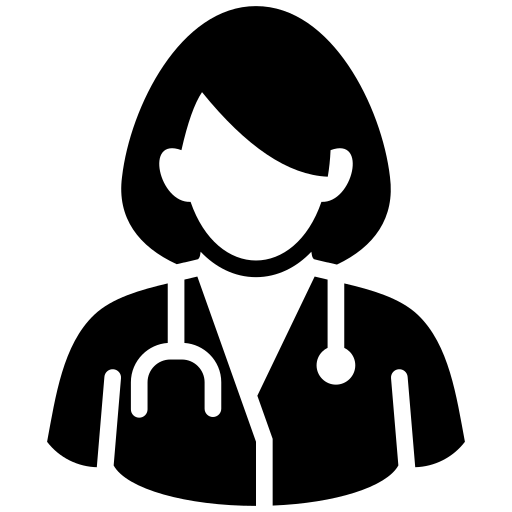
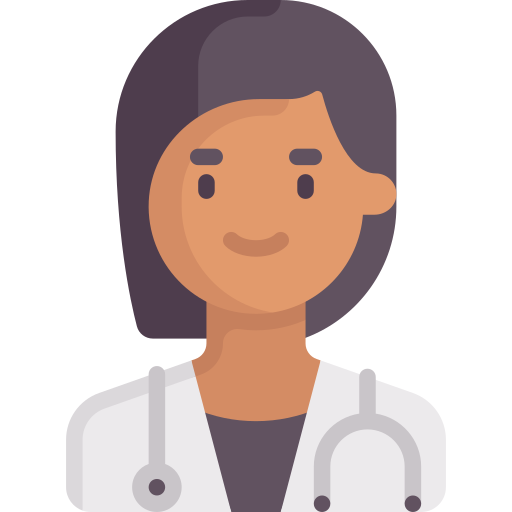
modified doctor register form

diff --git a/frontend/src/Styles/Doctor.css b/frontend/src/Styles/Doctor.css
@@ -1,0 +1,89 @@
+.phamacies-container {
+  width: auto;
+  height: 100vh;
+  align-items: center;
+  justify-content: center;
+  align-items: center;
+  display: flex;
+  background-image: url("../../public/assets/images/background_img.jpg");
+  background-repeat: no-repeat;
+  background-size: cover;
+}
+
+.editpaharmacisimg {
+  width: 110px;
+  border-radius: 50%;
+  background-color: #000000;
+}
+
+.pharmacis {
+  height: 95vh;
+  width: 450px;
+  padding: 25px !important;
+  border-radius: 10px;
+  display: flex;
+  flex-direction: column;
+  justify-content: space-between;
+  background-color: #ffffff;
+  text-align: center;
+}
+
+.pharmaciesimg {
+  width: 60px !important;
+  margin-left: auto;
+  margin-right: auto;
+  text-align: center !important;
+  position: relative;
+}
+
+/* .camera {
+  color: #000;
+  position: absolute;
+  margin-top: 50px;
+  margin-left: -33px;
+  font-size: 20px;
+} */
+
+.pharmacycertificate {
+  border: 1pzx solid #0195e8;
+  height: 50px;
+}
+
+.pharmacies-register {
+  text-align: center;
+  color: #0195e8;
+  font-weight: 600;
+  padding: none;
+}
+
+.pharmacist-form {
+  text-align: left;
+  padding-left: 10px;
+  padding-right: 10px;
+  height: 80vh;
+  margin-top: 25px;
+}
+
+.pharmacist-form input {
+  width: 100%;
+  height: 4.5vh;
+  padding: 5px;
+  margin-top: 10px;
+  margin-bottom: 10px;
+  border: 1px solid #000000;
+  border-radius: 5px;
+}
+
+.pharmacist-form input:active {
+  background-color: #ffffff;
+}
+
+.pharmacist-form input:focus {
+  background-color: #ffffff;
+}
+
+.submitbtnpharmacy {
+  background-color: #0195e8;
+  color: #ffffff;
+  border: none !important;
+}

diff --git a/frontend/src/pages/DoctorRegister.jsx b/frontend/src/pages/DoctorRegister.jsx
@@ -4,7 +4,7 @@ import { FileUploader } from "react-drag-drop-files";
 import "../Styles/Pharmacies.css";
 
 const fileTypes = ["JPG", "PNG", "GIF"];
-export const Pharmacistregister = () => {
+export const Doctorregister = () => {
   const [file, setFile] = useState(null);
   const handleChange = (file) => {
     setFile(file);
@@ -13,8 +13,8 @@ export const Pharmacistregister = () => {
   return (
     <div className="phamacies-container">
       <div className="pharmacis">
-        <img src="assets/images/Pharmacies.jpeg" className="pharmaciesimg" />
-        <h5 className="pharmacies-register">REGISTER AS A PHARMACIST</h5>
+        <img src="assets/images/doctor.png" className="pharmaciesimg" />
+        <h5 className="pharmacies-register">REGISTER AS A DOCTOR</h5>
 
         <Form className="pharmacist-form">
           <label for="">Full Name</label>
@@ -25,7 +25,7 @@ export const Pharmacistregister = () => {
           <input type="email" className="email" />
           <br />
 
-          <label for="">Upload Valid Pharmacies Certificate</label>
+          <label for="">Upload Valid Doctor Certificate</label>
           <FileUploader
             handleChange={handleChange}
             name="file"

diff --git a/frontend/src/pages/Register.jsx b/frontend/src/pages/Register.jsx
@@ -1,5 +1,5 @@
 import React, { useState } from "react";
-import { Link } from "react-router-dom";
+import { Link, NavLink } from "react-router-dom";
 import { Form } from "react-bootstrap";
 import { HiMail } from "react-icons/hi";
 import { FaLock } from "react-icons/fa";
@@ -57,13 +57,23 @@ export const Register = () => {
           <br />
         </Form>
 
-        <Link
-          to="/pharmacistregister"
-          className="register-pharmacist"
-          style={{ textDecoration: "none", color: "#000000" }}
-        >
-          Register as a pharmacist
-        </Link>
+        <div className="registerperson">
+          <a
+            href="/pharmacistregister"
+            className="register-pharmacist"
+            style={{ textDecoration: "none", color: "#000000" }}
+          >
+            Register as a Pharmacist
+          </a>
+
+          <a
+            href="/registerdoctor"
+            className="register-doctor"
+            style={{ textDecoration: "none", color: "#000000" }}
+          >
+            Register as a Doctor
+          </a>
+        </div>
       </div>
     </div>
   );

diff --git a/frontend/src/App.js b/frontend/src/App.js
@@ -17,6 +17,7 @@ import EditStock from "./components/EditStock";
 import { Login } from "./pages/Login";
 import { Register } from "./pages/Register";
 import { Pharmacistregister } from "./pages/PharmacistRegister";
+import { Doctorregister } from "./pages/DoctorRegister";
 import { Reset } from "./pages/ResetPassword";
 import ViewDoctor from "./pages/ViewDoctor";
 import MainNavbar from "./components/MainNavbar";
@@ -51,6 +52,7 @@ export default function App() {
               path="/pharmacistregister"
               element={<Pharmacistregister />}
             />
+            <Route path="/registerdoctor" element={<Doctorregister />} />
             <Route path="/reset" element={<Reset />} />
 
             <Route path="/main" element={<MainNavbar />}>

diff --git a/frontend/src/Styles/Register.css b/frontend/src/Styles/Register.css
@@ -107,3 +107,8 @@
   margin-top: 10px;
   margin-bottom: 10px;
 }
+
+.registerperson {
+  display: flex;
+  justify-content: space-between;
+}
